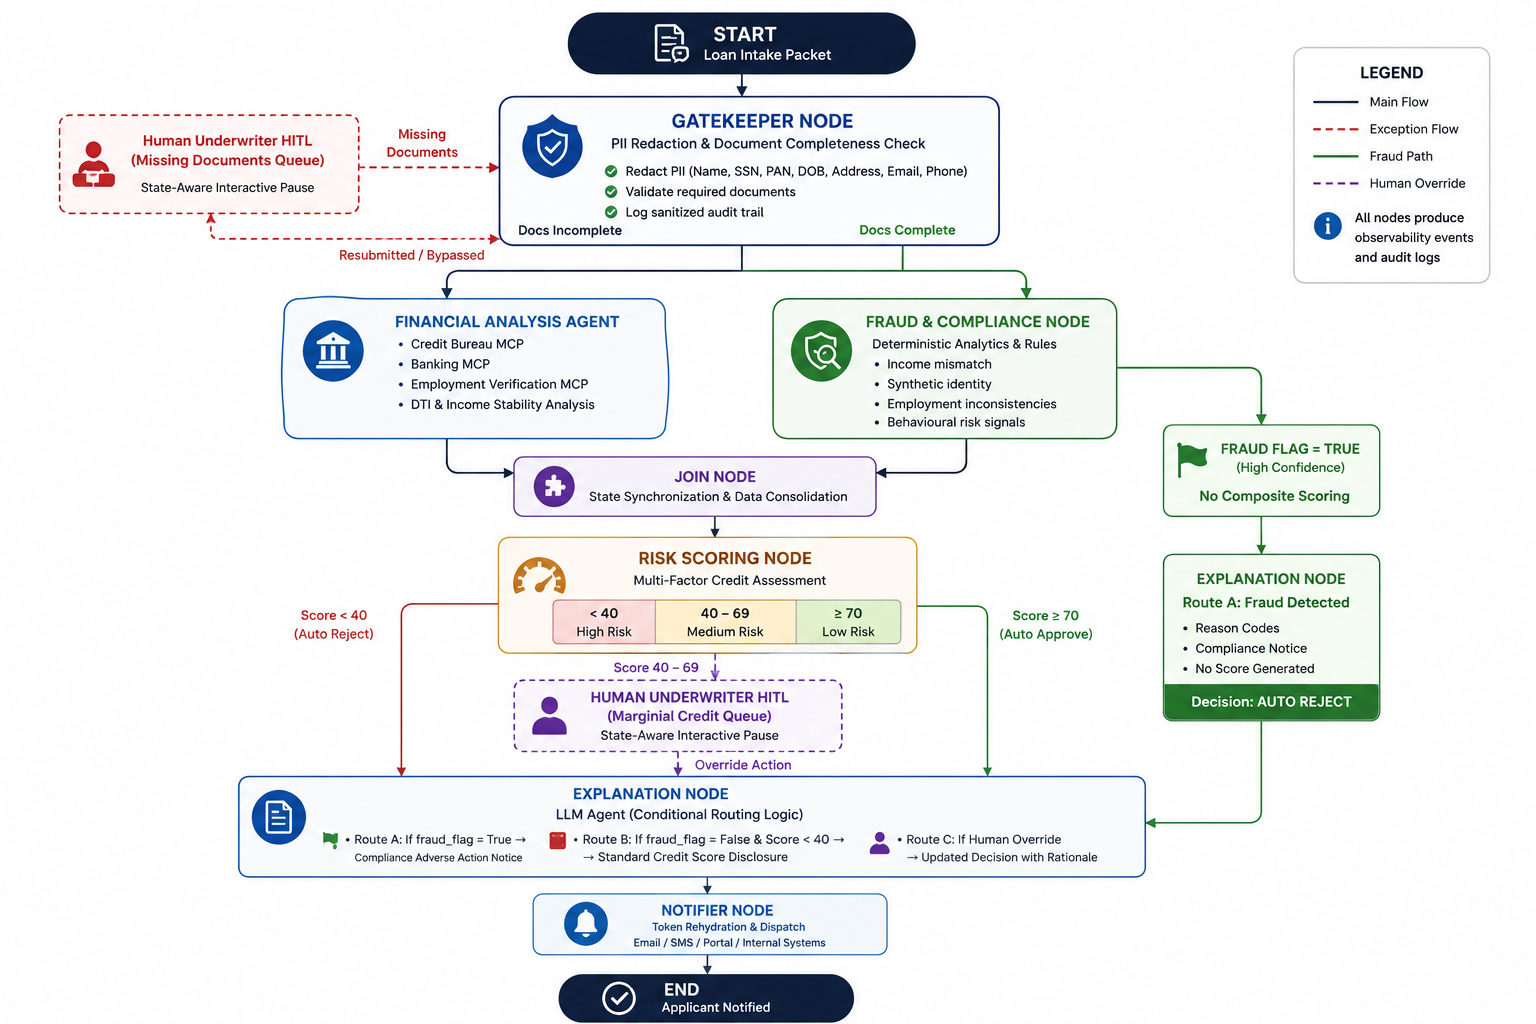
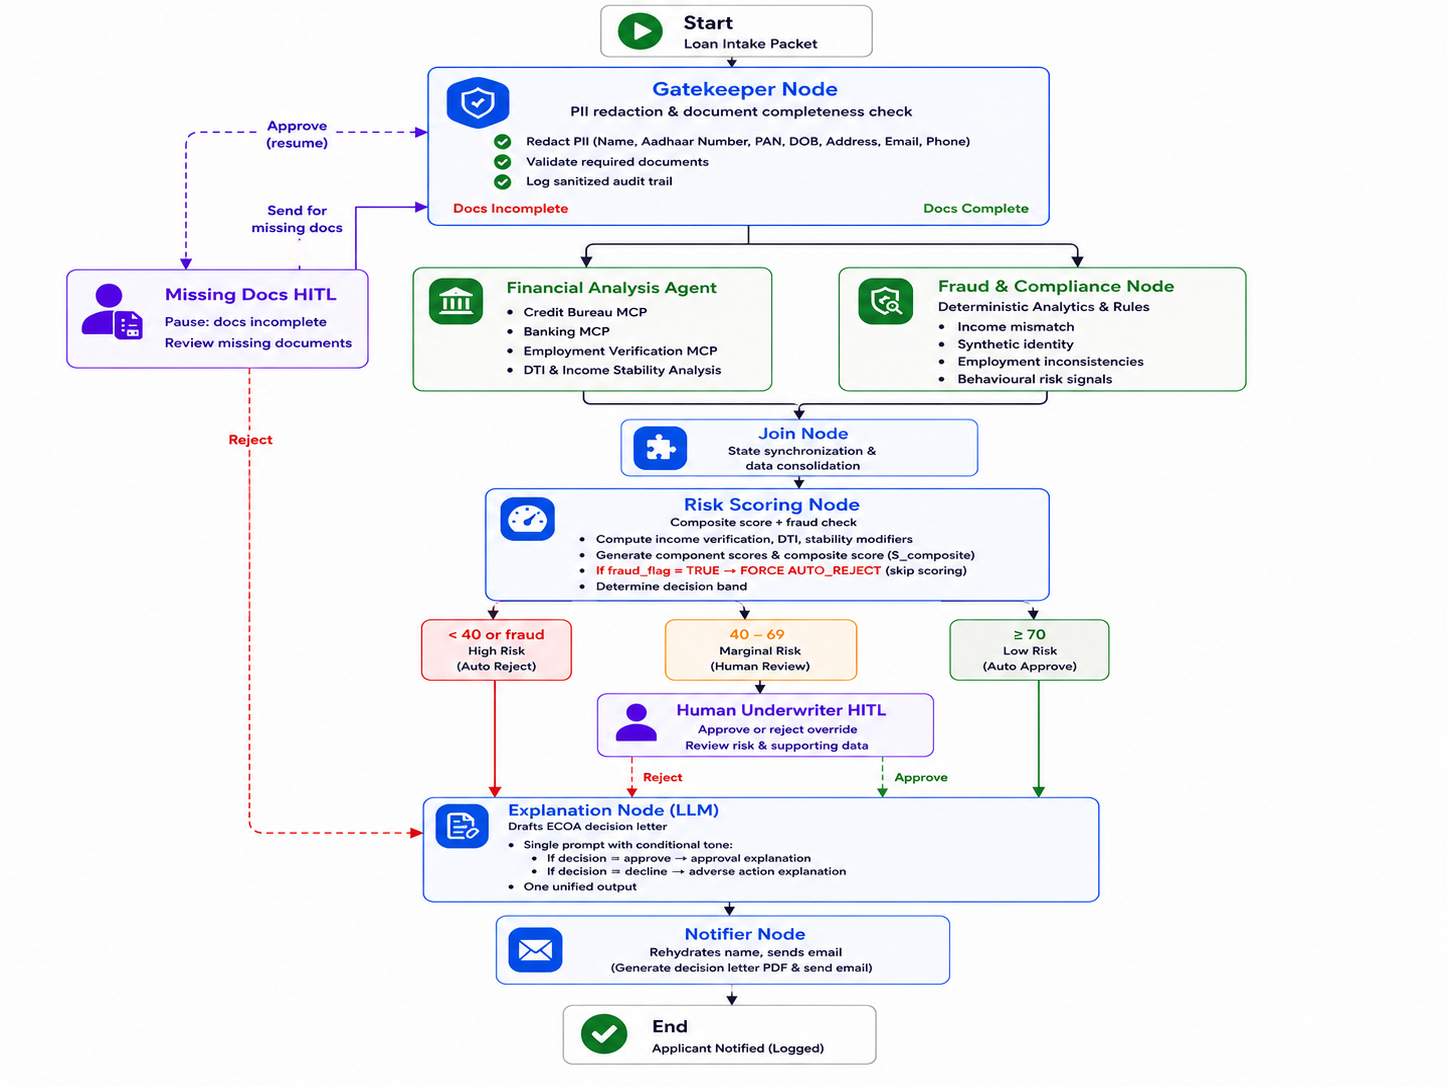
Minor Updates

diff --git a/loanshield/app/static/script.js b/loanshield/app/static/script.js
@@ -208,7 +208,7 @@ async function loadBenchmarkTemplates() {
             if (profile.target_scenario === 'Thin Credit') {
                 badgeClass = 'badge-thin';
                 label = 'Review';
-            } else if (['High DTI', 'Fraud', 'Terminated Employment'].includes(profile.target_scenario)) {
+            } else if (['High DTI', 'Fraud', 'Terminated Employment Fraud'].includes(profile.target_scenario)) {
                 badgeClass = 'badge-reject';
                 label = 'Reject';
             } else if (profile.target_scenario === 'Missing Documents') {